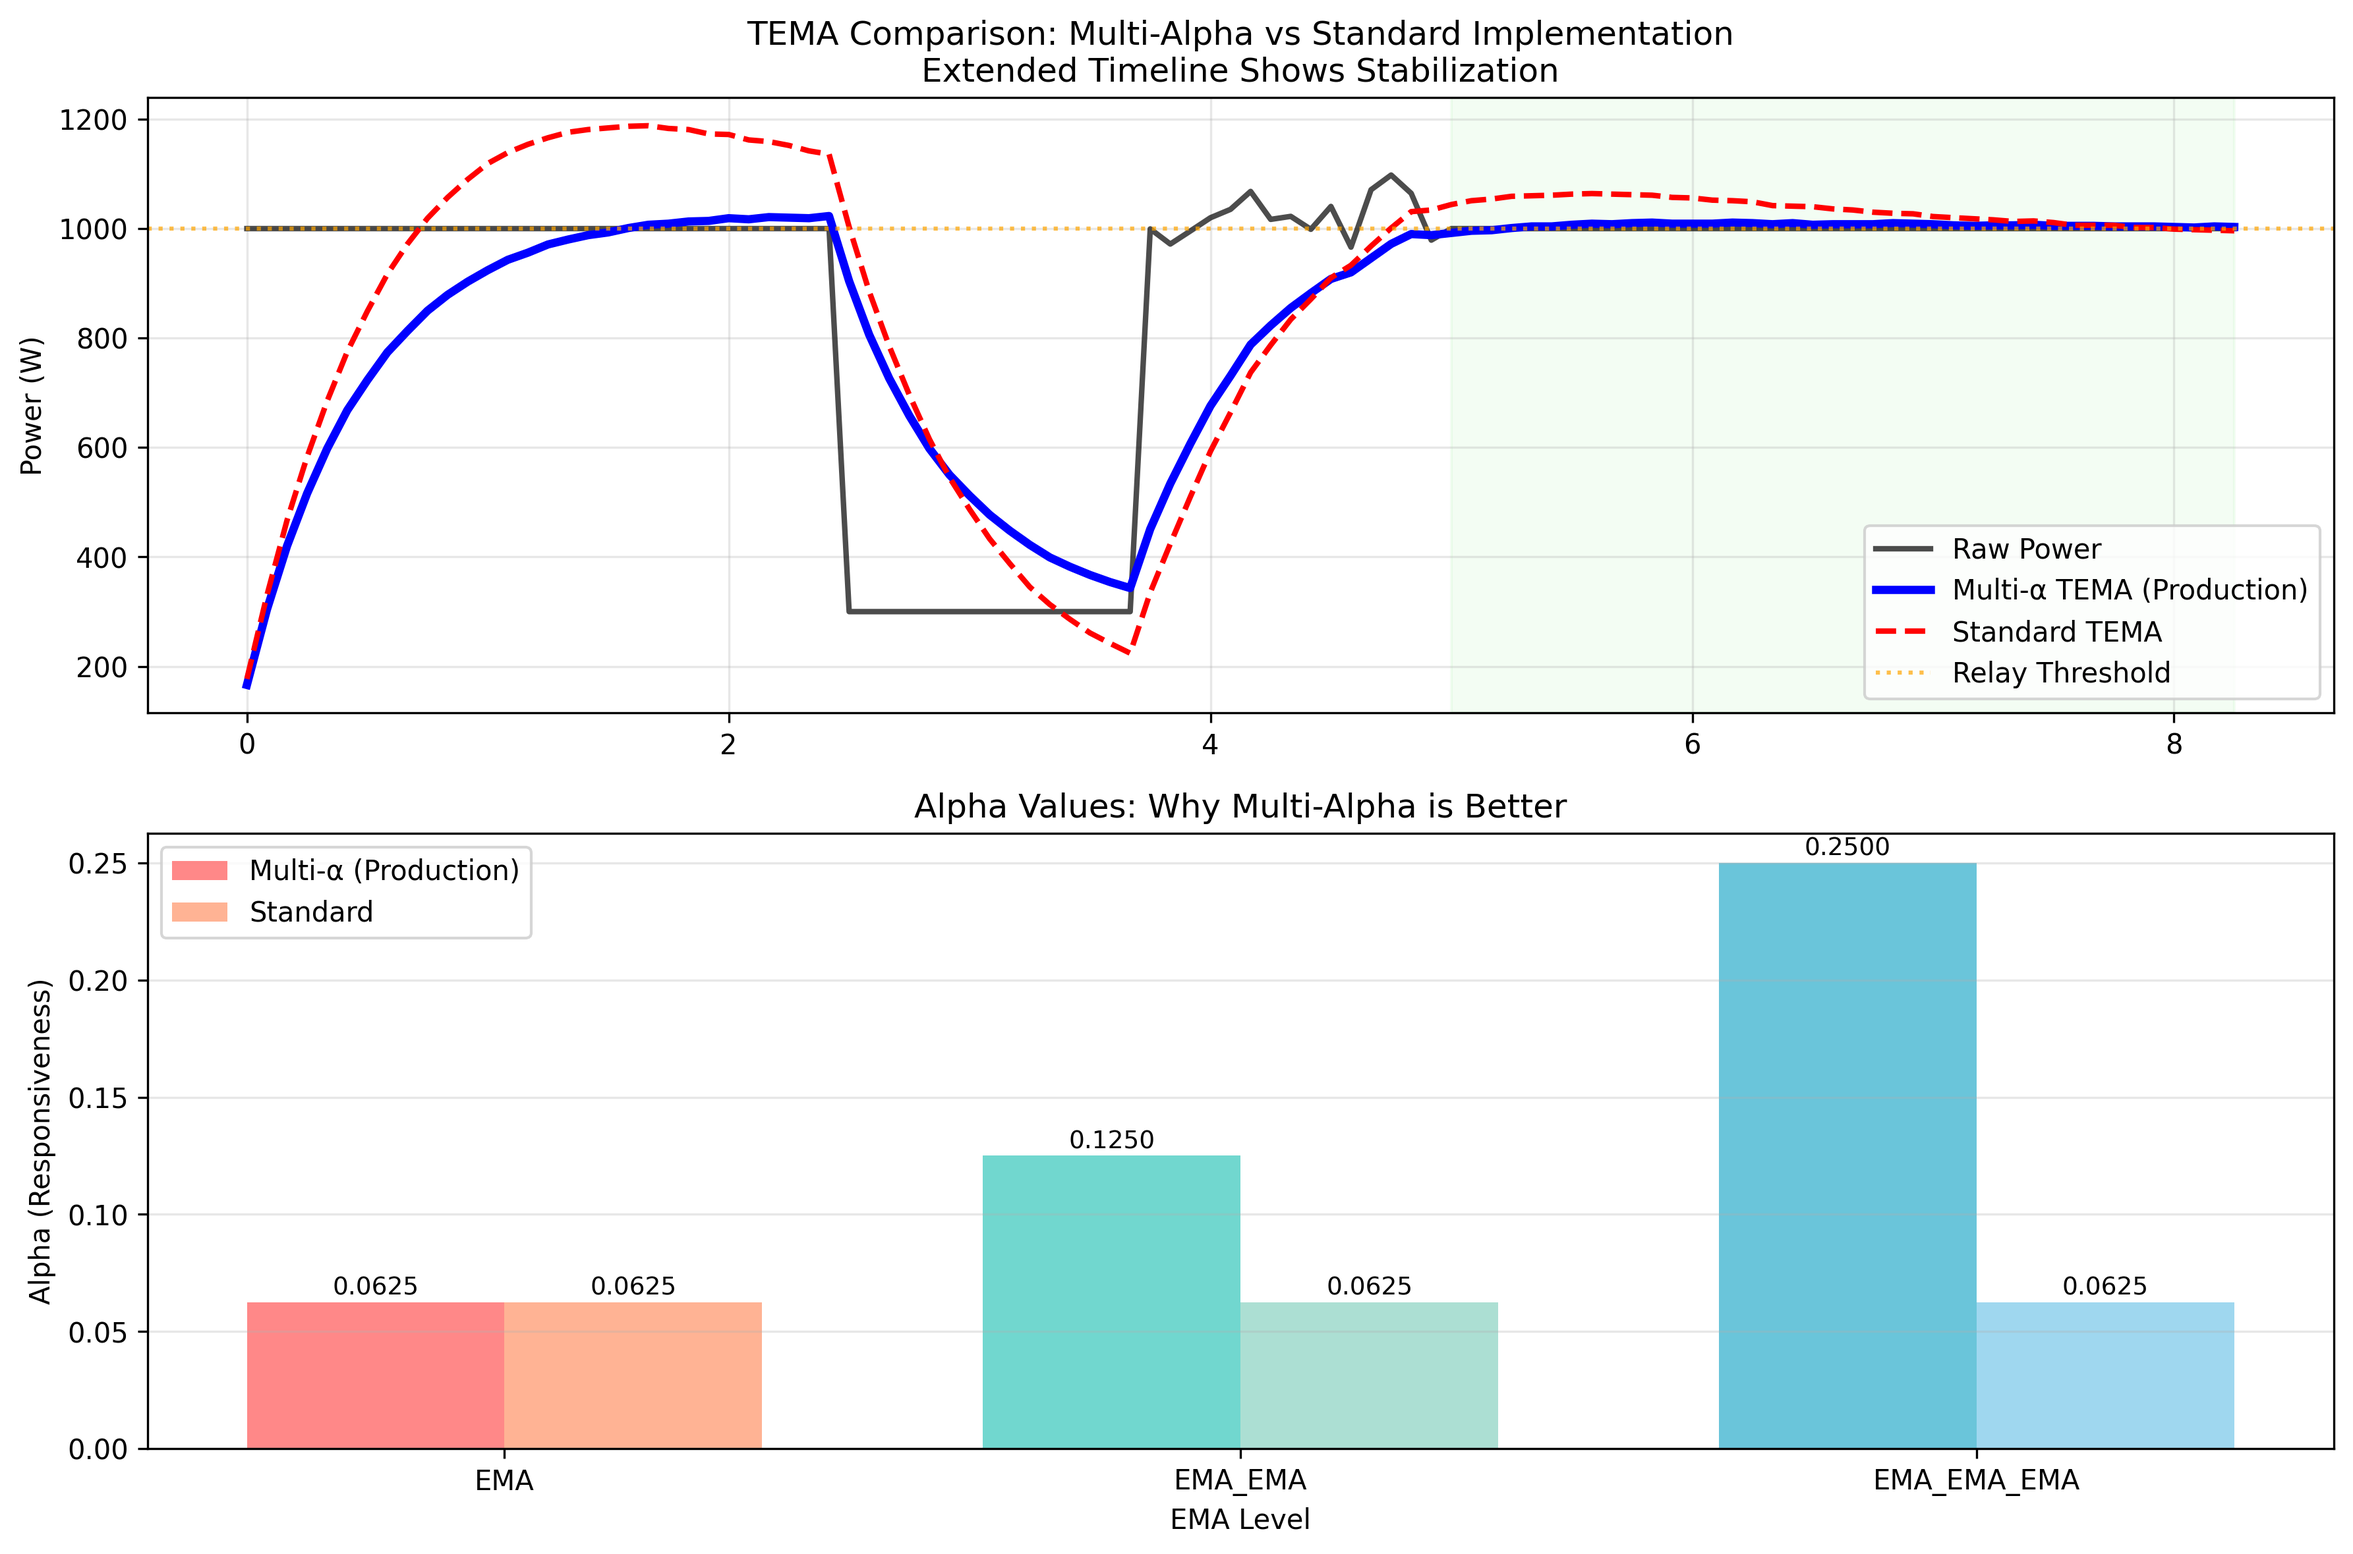
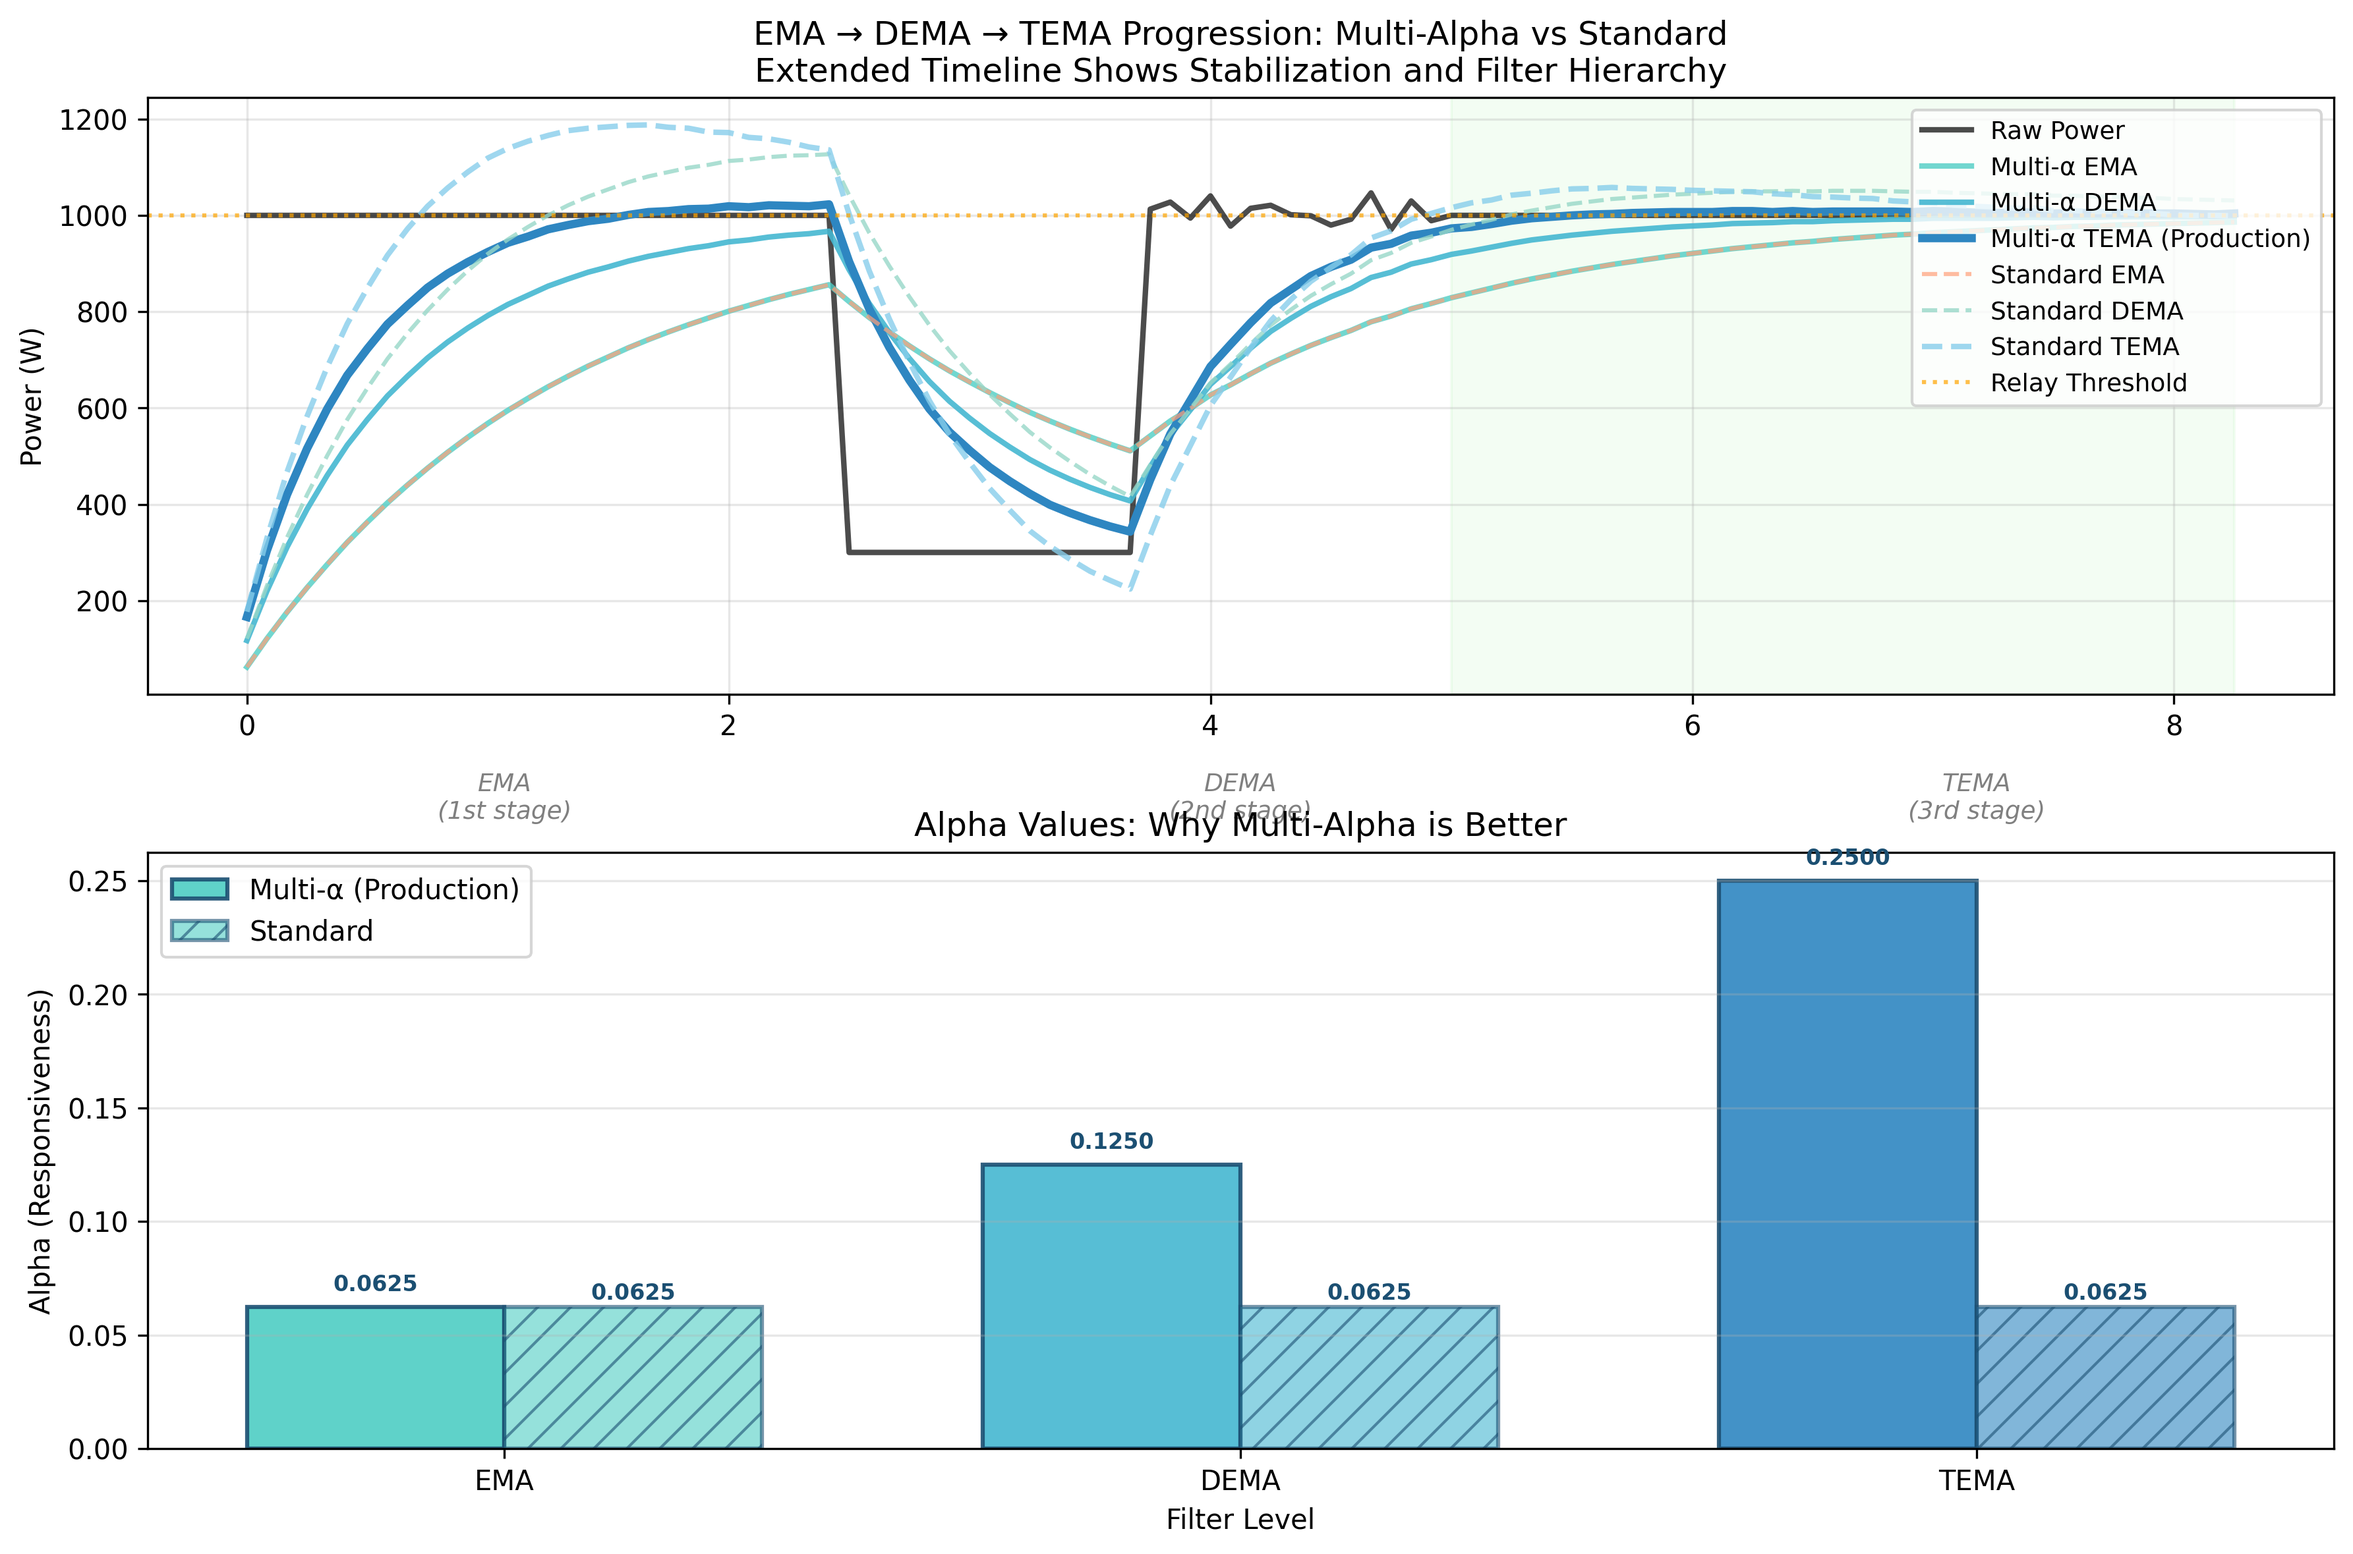
Perfect color consistency in alpha values bar chart
- Use identical colors for corresponding filter levels (EMA/DEMA/TEMA)
- Multi-α bars: solid with higher alpha (0.9) for better visibility
- Standard bars: same colors but with hatching pattern and lower alpha (0.6)
- Colors match exactly with the main plot:
  * EMA: #4ECDC4 (light blue)
  * DEMA: #45B7D1 (medium blue)
  * TEMA: #2E86C1 (dark blue)
- Unified edge color and text annotations for clean appearance

Now the bar chart clearly shows the alpha value differences between
implementations while maintaining visual consistency with the main plot.
Each filter level uses the same color regardless of implementation,
making comparisons intuitive and professional.

diff --git a/dev/EWMA_CloudImmunity_Benchmark/tema_comparison.py b/dev/EWMA_CloudImmunity_Benchmark/tema_comparison.py
@@ -31,12 +31,16 @@ def compare_tema_implementations():
     multi_ema_raw = multi_ema = 0
     multi_ema_ema_raw = multi_ema_ema = 0
     multi_ema_ema_ema_raw = multi_ema_ema_ema = 0
+    multi_ema_results = []
+    multi_dema_results = []
     multi_tema_results = []
     
     # Standard TEMA (official formula)
     std_ema_raw = std_ema = 0
     std_ema_ema_raw = std_ema_ema = 0
     std_ema_ema_ema_raw = std_ema_ema_ema = 0
+    std_ema_results = []
+    std_dema_results = []
     std_tema_results = []
     
     for sample in cloud_data:
@@ -50,7 +54,10 @@ def compare_tema_implementations():
         multi_ema_ema_ema_raw = multi_ema_ema_ema_raw - multi_ema_ema_ema + multi_ema_ema
         multi_ema_ema_ema = int(multi_ema_ema_ema_raw >> (shift_base - 2))  # 4x faster
         
+        multi_dema = (multi_ema << 1) - multi_ema_ema  # DEMA = 2*EMA - EMA_EMA
         multi_tema = 3 * (multi_ema - multi_ema_ema) + multi_ema_ema_ema
+        multi_ema_results.append(multi_ema)
+        multi_dema_results.append(multi_dema)
         multi_tema_results.append(multi_tema)
         
         # Standard implementation (same alpha for all levels)
@@ -63,7 +70,10 @@ def compare_tema_implementations():
         std_ema_ema_ema_raw = std_ema_ema_ema_raw - std_ema_ema_ema + std_ema_ema
         std_ema_ema_ema = int(std_ema_ema_ema_raw >> shift_base)  # Same alpha
         
+        std_dema = (std_ema << 1) - std_ema_ema  # DEMA = 2*EMA - EMA_EMA
         std_tema = 3 * (std_ema - std_ema_ema) + std_ema_ema_ema
+        std_ema_results.append(std_ema)
+        std_dema_results.append(std_dema)
         std_tema_results.append(std_tema)
     
     # Create plot
@@ -71,12 +81,21 @@ def compare_tema_implementations():
     
     plt.subplot(2, 1, 1)
     plt.plot(time_axis, cloud_data, 'k-', linewidth=2, label='Raw Power', alpha=0.7)
-    plt.plot(time_axis, multi_tema_results, 'b-', linewidth=3, label='Multi-α TEMA (Production)')
-    plt.plot(time_axis, std_tema_results, 'r--', linewidth=2, label='Standard TEMA')
+    
+    # Multi-alpha results (production implementation)
+    plt.plot(time_axis, multi_ema_results, '#4ECDC4', linewidth=2, label='Multi-α EMA', linestyle='-', alpha=0.8)
+    plt.plot(time_axis, multi_dema_results, '#45B7D1', linewidth=2, label='Multi-α DEMA', linestyle='-', alpha=0.9)
+    plt.plot(time_axis, multi_tema_results, '#2E86C1', linewidth=3, label='Multi-α TEMA (Production)', linestyle='-')
+    
+    # Standard results (official formulas)
+    plt.plot(time_axis, std_ema_results, '#FFA07A', linewidth=1.5, label='Standard EMA', linestyle='--', alpha=0.7)
+    plt.plot(time_axis, std_dema_results, '#98D8C8', linewidth=1.5, label='Standard DEMA', linestyle='--', alpha=0.8)
+    plt.plot(time_axis, std_tema_results, '#87CEEB', linewidth=2, label='Standard TEMA', linestyle='--', alpha=0.8)
+    
     plt.axhline(y=1000, color='orange', linestyle=':', alpha=0.7, label='Relay Threshold')
-    plt.title('TEMA Comparison: Multi-Alpha vs Standard Implementation\nExtended Timeline Shows Stabilization')
+    plt.title('EMA → DEMA → TEMA Progression: Multi-Alpha vs Standard\nExtended Timeline Shows Stabilization and Filter Hierarchy')
     plt.ylabel('Power (W)')
-    plt.legend()
+    plt.legend(loc='upper right', fontsize=9)
     plt.grid(True, alpha=0.3)
     
     # Add stabilization period highlighting
@@ -91,22 +110,34 @@ def compare_tema_implementations():
     x = np.arange(3)
     width = 0.35
     
-    plt.bar(x - width/2, alphas_multi, width, label='Multi-α (Production)', 
-            color=['#FF6B6B', '#4ECDC4', '#45B7D1'], alpha=0.8)
-    plt.bar(x + width/2, alphas_std, width, label='Standard', 
-            color=['#FFA07A', '#98D8C8', '#87CEEB'], alpha=0.8)
+    # Use same colors as in the main plot for consistency
+    # EMA: #4ECDC4, DEMA: #45B7D1, TEMA: #2E86C1
+    filter_colors = ['#4ECDC4', '#45B7D1', '#2E86C1']  # Same for both implementations
+    
+    bars1 = plt.bar(x - width/2, alphas_multi, width, label='Multi-α (Production)', 
+                   color=filter_colors, alpha=0.9, edgecolor='#1B4F72', linewidth=1.5)
+    bars2 = plt.bar(x + width/2, alphas_std, width, label='Standard', 
+                   color=filter_colors, alpha=0.6, edgecolor='#1B4F72', linewidth=1.5, hatch='//')
     
     plt.title('Alpha Values: Why Multi-Alpha is Better')
     plt.ylabel('Alpha (Responsiveness)')
-    plt.xlabel('EMA Level')
-    plt.xticks(x, ['EMA', 'EMA_EMA', 'EMA_EMA_EMA'])
+    plt.xlabel('Filter Level')
+    plt.xticks(x, ['EMA', 'DEMA', 'TEMA'])
     plt.legend()
     plt.grid(True, alpha=0.3, axis='y')
     
-    # Add annotations
+    # Add filter level annotations above bars
+    filter_labels = ['EMA\n(1st stage)', 'DEMA\n(2nd stage)', 'TEMA\n(3rd stage)']
+    for i, label in enumerate(filter_labels):
+        plt.text(i, max(max(alphas_multi), max(alphas_std)) * 1.1, label, 
+                ha='center', va='bottom', fontsize=9, style='italic', color='gray')
+    
+    # Add value annotations with better formatting
     for i, (multi, std) in enumerate(zip(alphas_multi, alphas_std)):
-        plt.text(i - width/2, multi + 0.001, f'{multi:.4f}', ha='center', va='bottom', fontsize=9)
-        plt.text(i + width/2, std + 0.001, f'{std:.4f}', ha='center', va='bottom', fontsize=9)
+        plt.text(i - width/2, multi + max(alphas_multi) * 0.02, f'{multi:.4f}', 
+                ha='center', va='bottom', fontsize=8, fontweight='bold', color='#1B4F72')
+        plt.text(i + width/2, std + max(alphas_std) * 0.02, f'{std:.4f}', 
+                ha='center', va='bottom', fontsize=8, fontweight='bold', color='#1B4F72')
     
     plt.tight_layout()
     plt.savefig('tema_implementation_comparison.png', dpi=300, bbox_inches='tight')

diff --git a/analysis/scripts/tema_comparison.py b/analysis/scripts/tema_comparison.py
@@ -106,10 +106,14 @@ def compare_tema_implementations():
     x = np.arange(3)
     width = 0.35
     
-    plt.bar(x - width/2, alphas_multi, width, label='Multi-α (Production)', 
-            color=['#FF6B6B', '#4ECDC4', '#45B7D1'], alpha=0.8)
-    plt.bar(x + width/2, alphas_std, width, label='Standard', 
-            color=['#FFA07A', '#98D8C8', '#87CEEB'], alpha=0.8)
+    # Use same colors as in the main plot for consistency
+    # EMA: #4ECDC4, DEMA: #45B7D1, TEMA: #2E86C1
+    filter_colors = ['#4ECDC4', '#45B7D1', '#2E86C1']  # Same for both implementations
+    
+    bars1 = plt.bar(x - width/2, alphas_multi, width, label='Multi-α (Production)', 
+                   color=filter_colors, alpha=0.9, edgecolor='#1B4F72', linewidth=1.5)
+    bars2 = plt.bar(x + width/2, alphas_std, width, label='Standard', 
+                   color=filter_colors, alpha=0.6, edgecolor='#1B4F72', linewidth=1.5, hatch='//')
     
     plt.title('Alpha Values: Why Multi-Alpha is Better')
     plt.ylabel('Alpha (Responsiveness)')
@@ -118,10 +122,18 @@ def compare_tema_implementations():
     plt.legend()
     plt.grid(True, alpha=0.3, axis='y')
     
-    # Add annotations
+    # Add filter level annotations above bars
+    filter_labels = ['EMA\n(1st stage)', 'DEMA\n(2nd stage)', 'TEMA\n(3rd stage)']
+    for i, label in enumerate(filter_labels):
+        plt.text(i, max(max(alphas_multi), max(alphas_std)) * 1.1, label, 
+                ha='center', va='bottom', fontsize=9, style='italic', color='gray')
+    
+    # Add value annotations with better formatting
     for i, (multi, std) in enumerate(zip(alphas_multi, alphas_std)):
-        plt.text(i - width/2, multi + 0.001, f'{multi:.4f}', ha='center', va='bottom', fontsize=9)
-        plt.text(i + width/2, std + 0.001, f'{std:.4f}', ha='center', va='bottom', fontsize=9)
+        plt.text(i - width/2, multi + max(alphas_multi) * 0.02, f'{multi:.4f}', 
+                ha='center', va='bottom', fontsize=8, fontweight='bold', color='#1B4F72')
+        plt.text(i + width/2, std + max(alphas_std) * 0.02, f'{std:.4f}', 
+                ha='center', va='bottom', fontsize=8, fontweight='bold', color='#1B4F72')
     
     plt.tight_layout()
     plt.savefig('../plots/tema_implementation_comparison.png', dpi=300, bbox_inches='tight')
